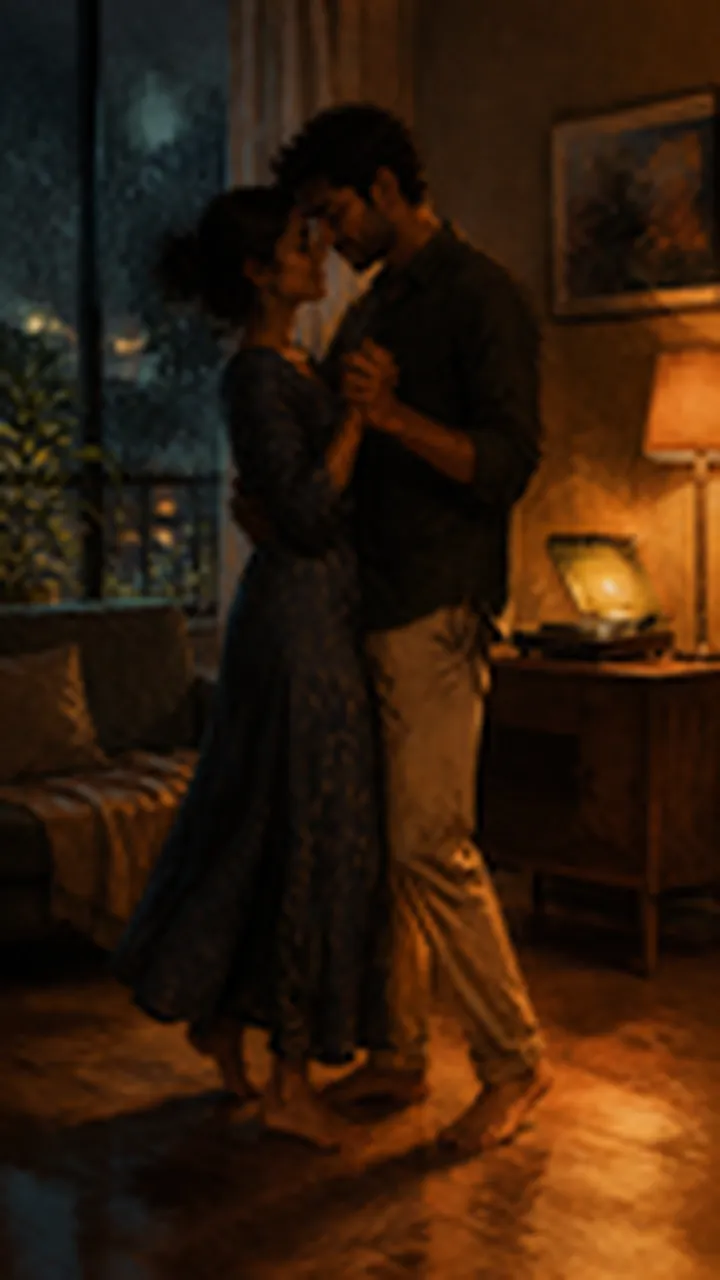
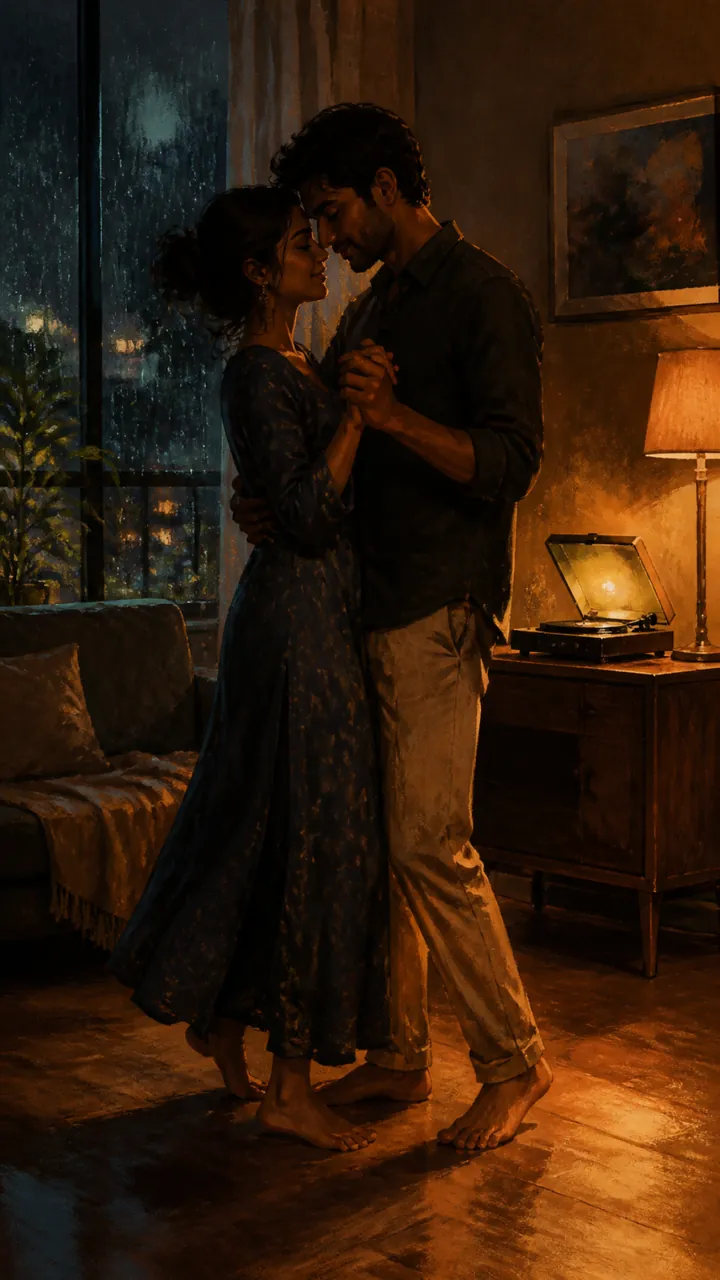
Late Night Vinyl: real art from the owner's Canva export, share image, note fits the painting
Claude-Session: https://claude.ai/code/session_01421VuoqhFcSd1MVsboy9pA

diff --git a/late-night-vinyl/index.html b/late-night-vinyl/index.html
@@ -82,11 +82,11 @@ img{-webkit-user-drag:none;user-select:none;-webkit-user-select:none}
 @keyframes fadein{from{opacity:0;transform:translateY(6px)}}
 
 /* 1. the room */
-.room{position:relative;width:min(84vw,58dvh*.5625,420px);aspect-ratio:9/16;border-radius:14px;overflow:hidden;box-shadow:0 22px 50px rgba(0,0,0,.6)}
+.room{position:relative;width:min(84vw,58dvh*.5625,420px);aspect-ratio:9/16;border-radius:14px;overflow:hidden;container-type:inline-size;box-shadow:0 22px 50px rgba(0,0,0,.6)}
 .room img{width:100%;height:100%;object-fit:cover;display:block}
 .room .lamp{position:absolute;left:36%;top:30%;width:60%;aspect-ratio:1;transform:translate(-50%,-50%);border-radius:50%;background:radial-gradient(closest-side,rgba(255,206,130,.35),transparent);mix-blend-mode:screen;animation:flicker 4s ease-in-out infinite;pointer-events:none}
 @keyframes flicker{30%{opacity:.85}60%{opacity:1}75%{opacity:.9}}
-.tag{position:absolute;left:31%;top:72%;transform:translate(-50%,-50%) rotate(-6deg);background:var(--cream);color:var(--ink);font:700 1.3rem/1.05 var(--hand);padding:8px 12px 10px;border-radius:3px;
+.tag{position:absolute;left:40%;top:77%;transform:translate(-50%,-50%) rotate(-6deg);background:var(--cream);color:var(--ink);font:700 clamp(.72rem,6.6cqw,1.4rem)/1.05 var(--hand);white-space:nowrap;padding:8px 12px 10px;border-radius:3px;
   box-shadow:0 6px 14px rgba(0,0,0,.5);cursor:pointer;white-space:nowrap}
 .tag::before{content:"";position:absolute;left:50%;top:-10px;width:1px;height:12px;background:var(--cream-dk)}
 .tag .glow{position:absolute;inset:-8px;border-radius:8px;box-shadow:0 0 0 2px rgba(233,184,114,.9);animation:pulse 1.8s ease-in-out infinite;pointer-events:none}

diff --git a/CLAUDE.md b/CLAUDE.md
@@ -16,7 +16,7 @@ Brand Instagram: @littlegasp.co. Owner: Aniket Nandkumar Gurav, Mumbai.
 - `anniversary/index.html` – "Memory Lane" anniversary (₹149; Canva storyboard DAHXtkkfL6s, asset kit DAHXtijKBLo (16 pages) + wide bg DAHXtvAjBVY, Tiny Surprises Canva account; built 11 Oct 2026, reworked on owner feedback, art is the owner's transparent Canva export; LIVE on homepage/about/pins 11 Oct 2026 night): open (helmets on: tap a helmet, it flies to the head and fades while `couple-helmets.webp` (Canva repaint of the same couple wearing helmets, media MAHXtz1xcy4, aligned to `couple.webp`) is revealed under a soft radial mask around that head only (`.hlp`/`.hly`); name tags follow `theme` her/him, set from the editor's Wife/Husband pick via `genderFromWho`) → kick (swipe the kick lever down twice; music starts here) → map (paper map unfolds, dotted route, years from `number`) → fuel (only if reasons: hold the nozzle; one gauge bar per reason) → lane (drag the scooter up `img/road.webp`, path = `ROAD` in 900×1600 image space; EVERY PHOTO IS A MILESTONE: caption "year: text", photo shows in the note as a polaroid; up to 20 photos (editor `maxPhotos:20`, `captionMax:80`); no photos → old `extra.milestones` or `DEFAULT_STOPS`; "Drive for me" after 8 s; the post-box scene was dropped) → toll (barrier is 3 layers `bar-post/bar-arm/bar-hub.webp`, only the arm rotates about the hub; one promise per lift from `extra.promises` or `DEFAULT_PROMISES`; after the last one `rideAway()` sends the riding couple up the painted road, shrinking toward the vanishing point, per-layout path in vw/vh) → chai (only if letter: couple sitting on the parked scooter at the tapri; "Cheers" → full-screen overlay, two `chai-glass.webp` (one glass, mirrored) swing in and clink with a splash; then the chalkboard card writes the letter; on phones the art hides once the board shows) → lock (only if question: Lock it / tap lock → lock drops onto the rail, key slides into the keyhole and turns (click), comes out; "Throw the key away" → key arcs into the river, splash + ripples; then "Ride into forever" button, never automatic) → end. Music: our synthesised ukulele-style tune (`SONG.src` empty); buyer's song replaces it. Backend v10 (`/home/claude/out/Code-v10.gs`): `anniversary` price + `PHOTO_LIMITS` (20 photos, 80-char captions).
 - Ring Hunt proposal (`proposal/`): LIVE AGAIN 29 Oct 2026 after the owner approved the rework ("Looks great go ahead"): homepage card (9 designs, `offerCount` 9), about page, pins.xml item (guid `littlegasp-pin-proposal-1`), editor entry, landing page `proposal-surprise-website/` (in `tools/seo_pages.py`, sitemap, homepage ideas block and footer), CSS/JS `?v=12`. Final flow: open (doorbell, note under the door, music starts) → map (unroll; "🗺 Map" button reopens it during the clues) → cushion (film reel) / frame (photo 1 in the frame, all reasons on one card) / jar (`extra.jar`) / book (letter), each found in the dark with the torch → trail (rose petals) → show (projector plays photos 2+ by itself) → ask (tap the ring box, question, yes emailed) → end. History: built 12 Oct 2026, briefly live, then TAKEN OFF the site the same night on the owner's call ("it all gives by itself, not a hunt game"). All its files live on branch `proposal-wip` (template, art, card/screen/pin/share images, editor entry; pins.xml guid `littlegasp-pin-proposal-1` reserved for it). Rework done on `proposal-wip` (owner's picks 12 Oct 2026: search the room + torch in the dark + collect the lock code): each clue starts as a dark `room.webp` panel `.stage`; a torch (masked lit copy, `--x/--y/--r`) follows the finger, a tap is a guess checked against `SPOT` (warm/cold lines, ping, glow hint after 3 misses); found → the old close-up interaction; each clue then gives one digit of `extra.code` (4 digits, default 1402); the ring box has a CSS padlock + 4 dials (`tryUnlock`). Added 12 Oct 2026 (owner's picks): under the cushion the first photo is a torn 3×3 swap jigsaw (`buildJig`, tap two pieces to swap, "Fix it for me" after 25 s) before the polaroid stack; new scene `trail` before the balcony: swipe petal by petal along `TRAIL` on the room painting to the glowing balcony door ("Walk me there" after 10 s). Always 4 clues with fallbacks (no photos → heart card, `DEFAULT_REASONS`, short default letter). Off-site test copy: private Claude artifact "Ring Hunt Test" (https://claude.ai/artifact/9g8S9Y7PqUSTcgMvgj27uf). Owner feedback 29 Oct 2026 (done on `proposal-wip`): lights scene (pull chain, fairy-light string) REMOVED — owner: lighting the room then searching with a torch made no sense, so the house stays dark and music starts when the door note is read; "🗺 Map" button (top-left) opens the map overlay any time during the clues (found = ✓, current pulses) until all 4 are found; reasons all at once on one card; NEW automatic balcony scene `show` before `ask`: an old projector plays the photos as a film (3-2-1 countdown, captions, ends "to be continued"), the ONLY place photos appear; under the cushion is now a film reel tagged "play me on the balcony" (jigsaw and polaroid stack removed); photo 1 hangs in the frame window and the projector plays the rest (no photo shown twice); lock, code dials and clue digits removed (ring box opens with a tap), editor `code` extra removed. Backend v11 (proposal price, extra `jar`, reply kind `yes`) was sent; harmless while the design is off the site.
 - Miss You (`miss-you/`, long distance, ₹149): LIVE 29 Oct 2026 after the owner approved the journey version ("Go ahead. Just make sure it fit in mobile screen no scroll"): homepage card (10 designs, `offerCount` 10, `img/cards/miss-you.webp` + `-screen.webp`), about page, pins.xml item (guid `littlegasp-pin-miss-you-1`), landing page `long-distance-relationship-gift/` (in `tools/seo_pages.py`, sitemap, homepage ideas block, footer), CSS/JS `?v=13`. PHONE RULE (owner, 29 Oct 2026): no scrolling on any phone screen to reach a button: on phones/portrait every `.scene.two` is exactly one screen tall and `.art` is a size container (`container-type:size`) that shrinks the art (cq units) to the room the words leave; the date calendar opens in place of the boarding pass (`.passart.picking`); checked at 360x640, 375x667, 390x844, 414x736 with `tools/miss-you/t4.py` (measures overflow per state). Built 29 Oct 2026 on branch `miss-you-wip` after the owner approved Canva storyboard DAHZXfyXOaU (art = asset kit DAHZXeE7it4 pages 6–13, owner's transparent export). Storyline reworked the same day on owner feedback ("story line is not that much good", then: why take off if we ask "when are you coming?") into ONE JOURNEY: the paper plane is the sender's message, not the sender travelling ("I can't come yet, so I'm sending this instead"). `seq` = open → plane → window → plane → call → plane → parcel → plane → ask → end; the `plane` scene comes back between stops and flies one leg each time (`STOPS` [.29,.59,.88] on the path, `LEG_END`, `leg`, `startPlane(n)`, `landPlane()`); numbered pins on the map, km drop at every stop (`kmAt`), each stop's kicker says "Stop n of 3 · X km to go" (`data-stopline`). Map: painted night map `img/map.webp` in an SVG with viewBox `0 160 1080 1150`; lights A[186,996] (`extra.fromCity`) and B[903,465] (`extra.toCity`); distance from `CITIES` lat/lon, else `extra.km`. Stops: 1 window (wipe the fog canvas per photo), 2 call (pick up, `reasons` as chat bubbles), 3 parcel (swipe the tape, letter writes in). Landing: the plane flies in and unfolds into an HTML/CSS boarding pass (FROM/TO cities, passenger, date slot, stub "Seat: next to me / Gate: my arms"); they pick a date on the small calendar for `question` (default "When do we meet?"), "That's the day" stamps CONFIRMED and sends reply kind `date`; end = couple hug between the two lights. `number` = days since they last met (optional). Laptop bg `img/bg-wide.webp`. Builder script: `tools/miss-you/build.py`. Backend v13 (`/home/claude/out/Code-v13.gs`): `miss-you` price, extras `fromCity`/`toCity`/`km`, reply kind `date` — give it to the owner at go-live. Private test: Claude artifact "Miss You Test" (https://claude.ai/artifact/Ab7T6TG7CpeZGs82D5jCcp; the older 7c1ouangcouoHuu3xTUqP9 is the first storyline). Backend v13 deployed by the owner 29 Oct 2026.
-- Just-because design (3 Nov 2026): "Love Catcher" claw machine was built on branch `love-catcher-wip` (art kit Canva DAHZy5XupUc, storyboard DAHZy2ol9mI) and then DROPPED by the owner: "everything looks kiddy… should be adults way", interactive but less gaming. Keep the branch, don't ship it. Replacement idea "Late Night Vinyl" (owner's pick): storyboard Canva DAHZzC6RUSw (painterly, moody art: room MAHZzBOxDJU, top-down turntable MAHZzB4KjdU, slow-dance finale MAHZzKqZaL0): record leaning on the player with a "Play me" note → cover = photo 1 with their name as album title → drag the tonearm onto the record (music starts, their own song fits best) → Side A tracklist, each track a reason, needle walks inward → flip to Side B, photos as a gatefold → liner notes = letter → hidden track in the run-out groove = the question (Yes / "Play it once more first", no pressure) → slow-dance finale. APPROVED by the owner 3 Nov 2026 ("go ahead") and BUILT on branch `late-night-vinyl-wip` (NOT live): `late-night-vinyl/index.html` (₹149, dark palette night #0E2326 / amber #E9B872 / cream #F2E6D0 / wine #8F2B33; scenes open → cover (drag the record out of the sleeve) → play (drag the SVG tonearm `#arm` onto the CSS `.disc`; geometry `P`/`CEN`/`ARM`/`REC` in % of `#deck`, `thetaFor(r)`; tracks walk the needle inward) → sideb (only if photos) → notes (only if letter, typed in Courier) → ask (needle to the run-out groove, "HIDDEN TRACK"; Yes sends reply kind `yes`) → end; `fitLabels()` sizes the name on the record label). Music: our synthesised Rhodes + bass + vinyl hiss (`SONG.src` empty); buyer's song starts at the needle drop. Editor entry `late-night-vinyl` added on that branch. Art: kit Canva https://canva.link/xh4pxauuel8tgyu (4 pages: room, deck, dance, wide bg) – current images are low-res placeholders; when the owner's transparent PNG export arrives run `tools/late-night-vinyl/prep.py` and re-check the arm/platter coordinates. Private test: Claude artifact "Late Night Vinyl Test" (https://claude.ai/artifact/CsMiDvH7Rfbfv7MD1fGyLd). Go-live still needs: share.jpg, homepage card + screen still, about page, pins.xml item, landing page, sitemap, Apps Script `PRICES` "late-night-vinyl": 149.
+- Just-because design (3 Nov 2026): "Love Catcher" claw machine was built on branch `love-catcher-wip` (art kit Canva DAHZy5XupUc, storyboard DAHZy2ol9mI) and then DROPPED by the owner: "everything looks kiddy… should be adults way", interactive but less gaming. Keep the branch, don't ship it. Replacement idea "Late Night Vinyl" (owner's pick): storyboard Canva DAHZzC6RUSw (painterly, moody art: room MAHZzBOxDJU, top-down turntable MAHZzB4KjdU, slow-dance finale MAHZzKqZaL0): record leaning on the player with a "Play me" note → cover = photo 1 with their name as album title → drag the tonearm onto the record (music starts, their own song fits best) → Side A tracklist, each track a reason, needle walks inward → flip to Side B, photos as a gatefold → liner notes = letter → hidden track in the run-out groove = the question (Yes / "Play it once more first", no pressure) → slow-dance finale. APPROVED by the owner 3 Nov 2026 ("go ahead") and BUILT on branch `late-night-vinyl-wip` (NOT live): `late-night-vinyl/index.html` (₹149, dark palette night #0E2326 / amber #E9B872 / cream #F2E6D0 / wine #8F2B33; scenes open → cover (drag the record out of the sleeve) → play (drag the SVG tonearm `#arm` onto the CSS `.disc`; geometry `P`/`CEN`/`ARM`/`REC` in % of `#deck`, `thetaFor(r)`; tracks walk the needle inward) → sideb (only if photos) → notes (only if letter, typed in Courier) → ask (needle to the run-out groove, "HIDDEN TRACK"; Yes sends reply kind `yes`) → end; `fitLabels()` sizes the name on the record label). Music: our synthesised Rhodes + bass + vinyl hiss (`SONG.src` empty); buyer's song starts at the needle drop. Editor entry `late-night-vinyl` added on that branch. Art: kit Canva https://canva.link/xh4pxauuel8tgyu (4 pages: room, deck, dance, wide bg) – owner exported the kit 3 Nov 2026 (files 1.png room, deck.png, dance.png, bg-wide.png; copy deck/dance/bg-wide to 2/3/4.png for `tools/late-night-vinyl/prep.py`); arm/platter coordinates checked against the real deck, share.jpg made from bg-wide. Private test: Claude artifact "Late Night Vinyl Test" (https://claude.ai/artifact/CsMiDvH7Rfbfv7MD1fGyLd). Go-live still needs: homepage card + screen still, about page, pins.xml item, landing page, sitemap, Apps Script `PRICES` "late-night-vinyl": 149.
 - `style.css` – shared glass theme. `site.js` – shared header, phone menu, footer (edit nav/footer links only here).
 - `terms.html`, `refund.html`, `privacy.html`, `contact.html` – policies.
 - Search landing pages (14 Oct 2026, owner asked to rank for searches like "personalised interactive digital surprises"): `digital-surprise-gifts/` (hub), `birthday-surprise-website/`, `apology-website/`, `digital-love-letter/`, `anniversary-surprise-website/`, `karwa-chauth-gift-for-wife/`, `diwali-surprise-website/`, `navratri-garba-surprise/`. All GENERATED by `tools/seo_pages.py` (edit the data there and rerun; its `DESIGN` prices and `CSSV` must stay in step with `DESIGNS`/`?v=`). Indexable (no noindex), each with WebPage + BreadcrumbList + FAQPage + Product/Offer JSON-LD, listed in `sitemap.xml`, linked from the homepage "Find the right surprise" block and the shared footer (`site.js` `nav.ideas`). Every new live design gets its own landing page + sitemap entry.
